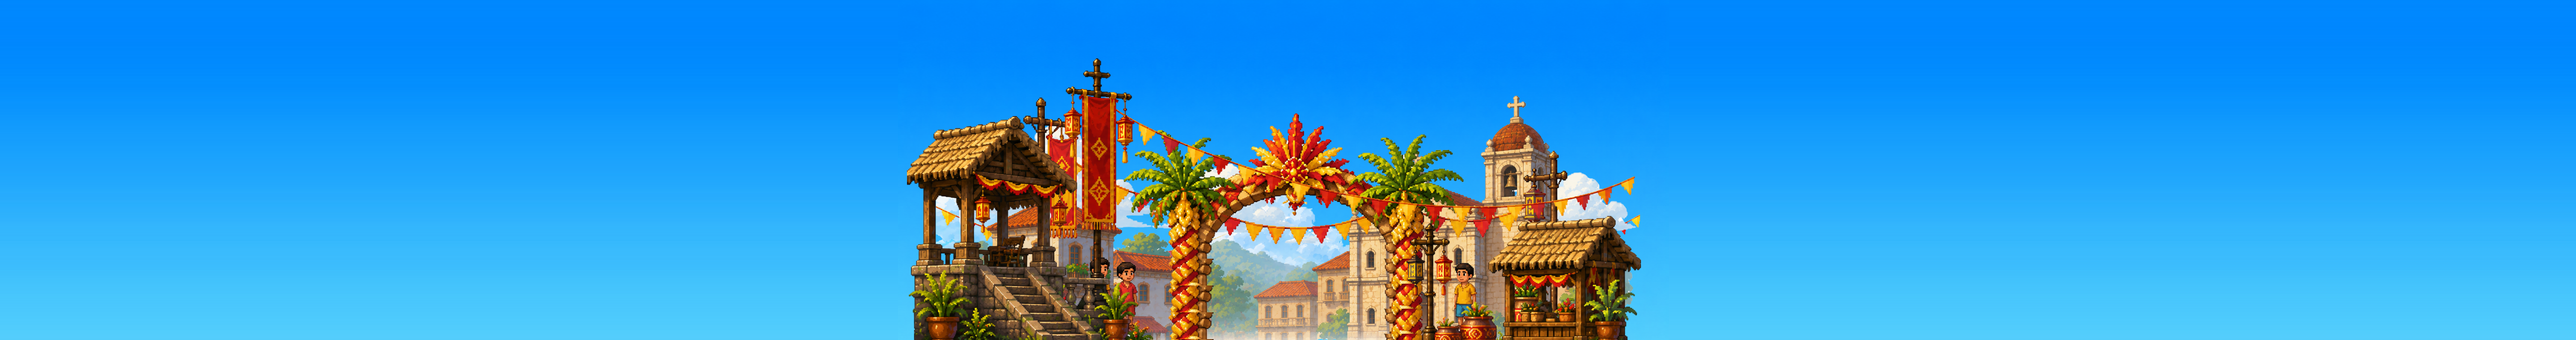
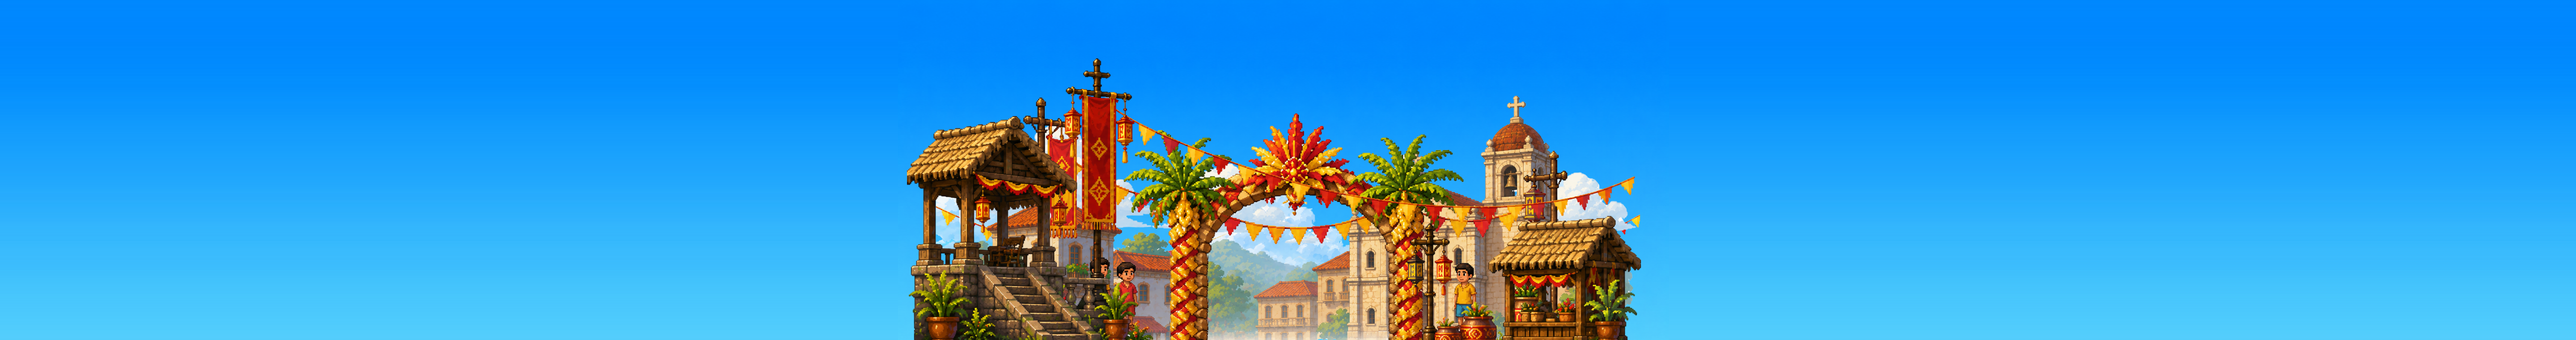
level 5 plaza

Changed region(s): [[0.5312, 0.7556, 0.5625, 1.0], [0.4375, 0.7556, 0.4688, 1.0]]

diff --git a/tools/build_mayon_journey.py b/tools/build_mayon_journey.py
@@ -51,6 +51,56 @@ def registered_frames(pattern, count):
     return [frame.crop(box) for frame in frames]
 
 
+def plaza_people(source):
+    """Keep the clear figures and arch from Piyesta, with continuous pillar stems."""
+    original = Image.open(source / "mg_people.png").convert("RGBA")
+    people = Image.open(source / "mg_people_nodancers.png").convert("RGBA")
+    join, bottom = 634, 818
+    overlap = 8
+    for start, end, left, right, period in [
+        (685, 807, 696, 782, 49),
+        (1162, 1272, 1184, 1263, 45),
+    ]:
+        # The pillars curve above the dancers. Align each clean row to the
+        # upright, keeping some of the original variation in its silhouette.
+        rows = []
+        for y in range(join - period - overlap, join):
+            row = original.crop((start, y, end, y + 1))
+            edge = row.getchannel("A").point(lambda value: 255 if value > 24 else 0).getbbox()
+            row = row.crop((edge[0] - 1, 0, edge[2] + 1, 1))
+            width = round((right - left) * 0.75 + row.width * 0.25)
+            aligned = Image.new("RGBA", (end - start, 1))
+            aligned.paste(row.resize((width, 1), Image.Resampling.NEAREST),
+                          ((left + right - width) // 2 - start, 0))
+            rows.append(aligned)
+
+        for y in range(join - overlap, bottom):
+            phase = (y - join + overlap) % period
+            row = rows[phase]
+            if phase < overlap:
+                previous = original.crop((start, y, end, y + 1)) if y < join else rows[period + phase]
+                row = Image.blend(previous, row, (phase + 1) / overlap)
+            people.paste(row, (start, y))
+    return people
+
+
+def plaza_backdrop():
+    """Composite Piyesta's registered plates at the same walk line as Level 2."""
+    source = ASSETS / "Level2"
+    with Image.open(source / "plaza_backdrop.png") as plate:
+        width, height = plate.size
+        sky_column = plate.crop((0, 0, 1, height)).convert("RGBA")
+    town = Image.new("RGBA", (width, height), (0, 136, 253, 255))
+    town.alpha_composite(sky_column.resize(town.size, Image.Resampling.NEAREST))
+
+    with Image.open(source / "bg_sky.png") as sky:
+        top = sky.getchannel("A").point(lambda value: 255 if value > 8 else 0).getbbox()[1]
+    for name in ["bg_sky", "bg_clouds", "mg_church", "mg_people", "fg_huts"]:
+        layer = plaza_people(source) if name == "mg_people" else Image.open(source / f"{name}.png").convert("RGBA")
+        town.alpha_composite(layer.crop((0, top, layer.width, top + height)), ((width - layer.width) // 2, 0))
+    return town
+
+
 def rice_beds():
     """Side-view rice grows out of three stone banks, in the delivery's own palette."""
     result=Image.new("RGBA",(900,276))
@@ -88,8 +138,8 @@ def build():
         sky.alpha_composite(layer)
     # Paper-margin padding in the delivery must not repeat as vertical sky-coloured bars.
     sky = sky.crop((150, 80, 1770, 880))
-    outputs = {"payyo_sky.png": sky}
-    for name in ["shore", "sea", "forest", "dawn", "plaza"]:
+    outputs = {"payyo_sky.png": sky, "plaza_sky.png": plaza_backdrop()}
+    for name in ["shore", "sea", "forest", "dawn"]:
         base = Image.new("RGBA", (1672, 941), (22, 49, 64, 255))
         if name == "shore":
             base.paste((86, 179, 222, 255), (0, 0, 1672, 941))
@@ -99,9 +149,6 @@ def build():
         elif name in ["forest", "dawn"]:
             sources = ["Level4/backdrop/mountain_far.png", "Level4/backdrop/mountain_near.png"]
             base.paste((31, 45, 58, 255), (0, 0, 1672, 941))
-        else:
-            base = Image.new("RGBA", (5760, 761), (0, 136, 253, 255))
-            sources = ["Level2/plaza_backdrop.png"]
         for source in sources:
             layer = Image.open(ASSETS / source).convert("RGBA")
             if source == "Level3/shore/ocean.png":
